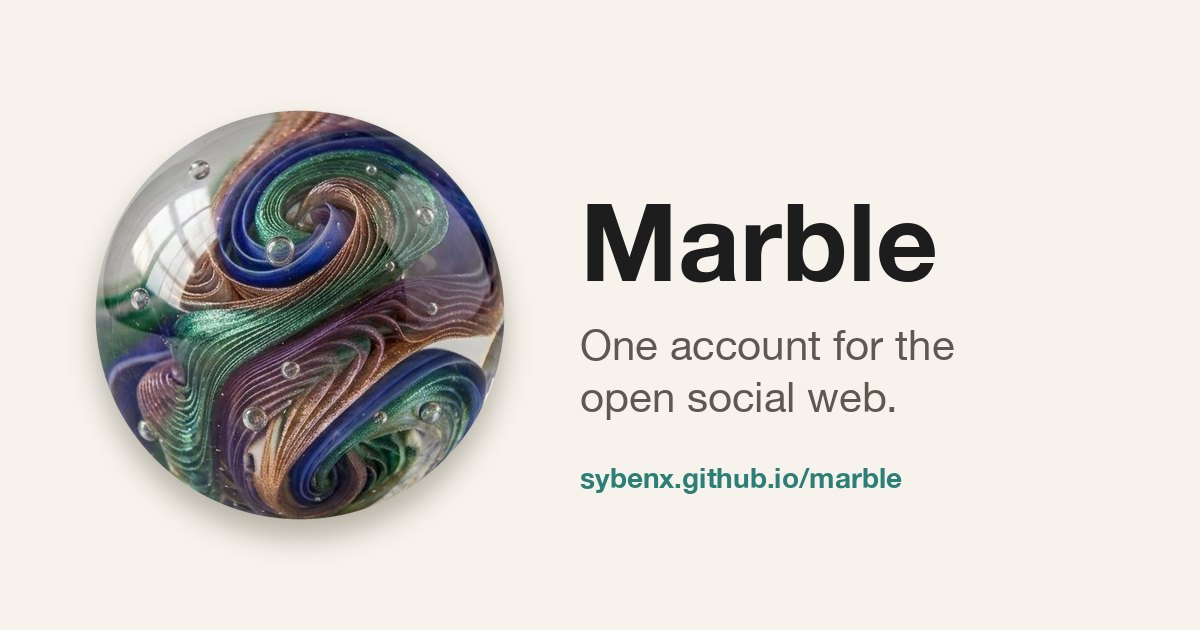
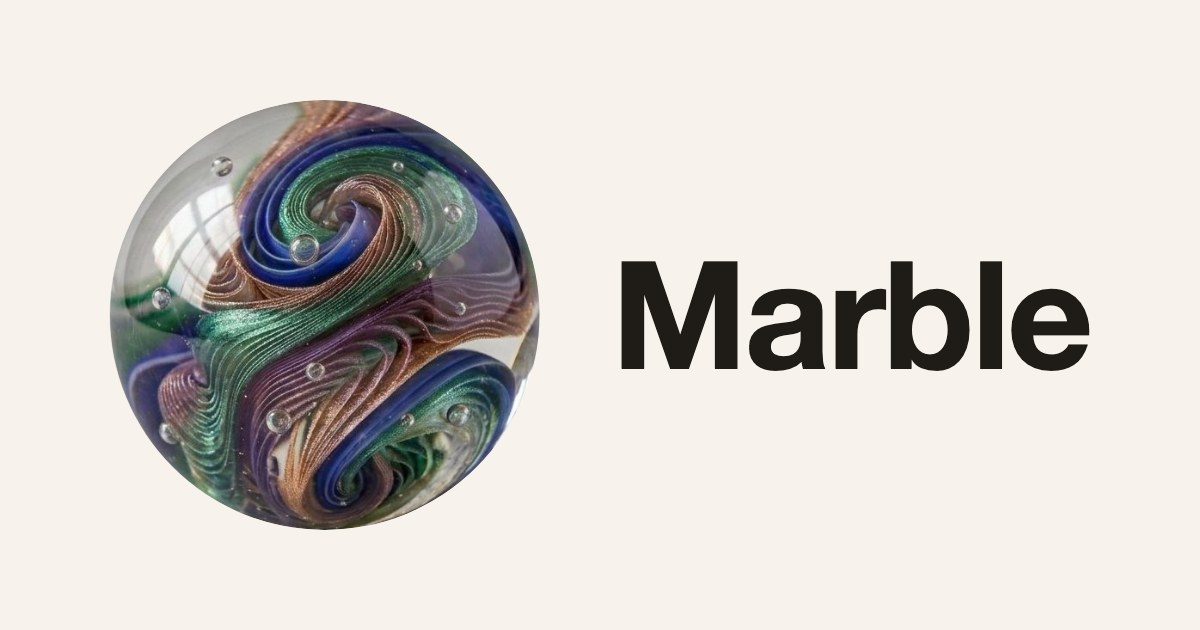
The landing is the home: a visitor sees the mark, a working search box, Sign in, and one quiet line, Get Marble for Android (to About's Get it); the tagline and What it does go, About keeps Why it's safe, Get it, Privacy and Open source; the share image is the marble and the word Marble (alt to matc

Changed region(s): [[0.0617, 0.1508, 0.925, 0.8746], [0.4625, 0.7238, 0.7708, 0.7841]]

diff --git a/site/index.html b/site/index.html
@@ -5,7 +5,7 @@
 <meta name="viewport" content="width=device-width, initial-scale=1">
 <title>Marble</title>
 <meta name="application-name" content="Marble">
-<meta name="description" content="Marble: search the open social web, keep what you find as notes, and read the people and sites you pick, calmly.">
+<meta name="description" content="Search the open social web.">
 <meta name="color-scheme" content="light dark">
 <meta name="theme-color" content="#F7F3EC" media="(prefers-color-scheme: light)">
 <meta name="theme-color" content="#13110F" media="(prefers-color-scheme: dark)">
@@ -49,12 +49,12 @@
 <meta property="og:type" content="website">
 <meta property="og:site_name" content="Marble">
 <meta property="og:title" content="Marble">
-<meta property="og:description" content="Search the open social web, keep what you find as notes, and read the people and sites you pick, calmly.">
+<meta property="og:description" content="Search the open social web.">
 <meta property="og:url" content="https://marble.syb.lol/">
 <meta property="og:image" content="https://marble.syb.lol/og.jpg">
 <meta property="og:image:width" content="1200">
 <meta property="og:image:height" content="630">
-<meta property="og:image:alt" content="A glass swirl marble, and the words: Marble. One account for the open social web.">
+<meta property="og:image:alt" content="A glass swirl marble and the word Marble.">
 <meta name="twitter:card" content="summary_large_image">
 <style>
   :root {
@@ -158,6 +158,11 @@
   .about-link a:hover { text-decoration: underline; }
   /* home at rest (home-rules.md): the mark, the box, "Reader" top left, your picture top right; About only for visitors */
   body[data-page="home"]:not([data-signed]) .about-link { display: block; }
+  /* a visitor: one quiet line under the box */
+  .get-line { display: none; margin: 18px 0 0; font-size: 14px; }
+  .get-line a { color: var(--muted); text-decoration: none; padding: 12px 8px; }
+  .get-line a:hover { text-decoration: underline; }
+  body[data-page="home"]:not([data-signed]) .get-line { display: block; }
   .place-word { display: none; position: absolute; top: 12px; left: 12px; font-size: 15px; color: var(--ink); text-decoration: none; padding: 0 10px; min-height: 44px; min-width: 44px; line-height: 44px; }
   /* 44 pt at least for everything you tap (home-rules: build requirements) */
   .account .me { min-width: 44px; min-height: 44px; display: grid; place-items: center; }
@@ -176,7 +181,7 @@
   .ic-btn:disabled { opacity: .3; cursor: default; }
   .nstep { display: block; color: var(--muted); font-size: 14px; white-space: pre-wrap; }
   .place-word:hover { text-decoration: underline; }
-  body[data-page="home"] .place-word { display: block; }
+  body[data-page="home"][data-signed] .place-word { display: block; } /* (a visitor: the mark, the box, Sign in, one line) */
   body[data-page="home"] .word { display: none; }
   /* the go-chip on a phone only; on a computer Enter does its job */
   @media (hover: hover) and (pointer: fine) { .go-chip { display: none; } }
@@ -807,6 +812,7 @@
     <button type="submit" class="go-chip" aria-label="Search"><svg viewBox="0 0 24 24" aria-hidden="true"><path d="M19 5v7a3 3 0 0 1-3 3H6"/><path d="M10 11l-4 4 4 4"/></svg></button>
     <div class="drop" id="drop" role="listbox" hidden></div>
   </form>
+  <p class="get-line"><a href="/about#get">Get Marble for Android</a></p>
   <div class="account" id="account"></div>
 </header>
 
@@ -814,33 +820,6 @@
 <p class="about-link"><a href="/about">About Marble</a></p>
 
 <div id="landing">
-<section class="wrap intro" aria-labelledby="tagline">
-  <p class="tagline" id="tagline">Find it, keep it, read it: the open social web, calmly.</p>
-  <a class="button" href="#get">Get Marble</a>
-  <p class="note">Free, for Android. iPhone is coming.</p>
-</section>
-
-<section class="wrap" aria-labelledby="what">
-  <h2 id="what">What it does</h2>
-  <div class="points">
-    <div class="point">
-      <svg viewBox="0 0 24 24" fill="none" stroke="currentColor" stroke-width="2" stroke-linecap="round" aria-hidden="true"><circle cx="12" cy="8" r="4"/><path d="M4 21c1.5-4 4.5-6 8-6s6.5 2 8 6"/></svg>
-      <h3>Your account</h3>
-      <p>It's yours alone. No company holds it, and no company can take it away.</p>
-    </div>
-    <div class="point">
-      <svg viewBox="0 0 24 24" fill="none" stroke="currentColor" stroke-width="2" stroke-linecap="round" stroke-linejoin="round" aria-hidden="true"><rect x="6" y="2" width="12" height="20" rx="2.5"/><path d="M9.5 9.5h5v5h-5z"/><path d="M11 18h2"/></svg>
-      <h3>Sign in anywhere with your phone</h3>
-      <p>A site shows a code. You scan it with Marble. You're in, with no password.</p>
-    </div>
-    <div class="point">
-      <svg viewBox="0 0 24 24" fill="none" stroke="currentColor" stroke-width="2" stroke-linecap="round" stroke-linejoin="round" aria-hidden="true"><circle cx="12" cy="12" r="9"/><path d="M15.5 8.5l-2 5-5 2 2-5z"/></svg>
-      <h3>Discover</h3>
-      <p>Posts from people you'll like, plus today's stories.</p>
-    </div>
-  </div>
-</section>
-
 <section class="wrap" aria-labelledby="safe">
   <div class="safe">
     <h2 id="safe">Why it's safe</h2>
